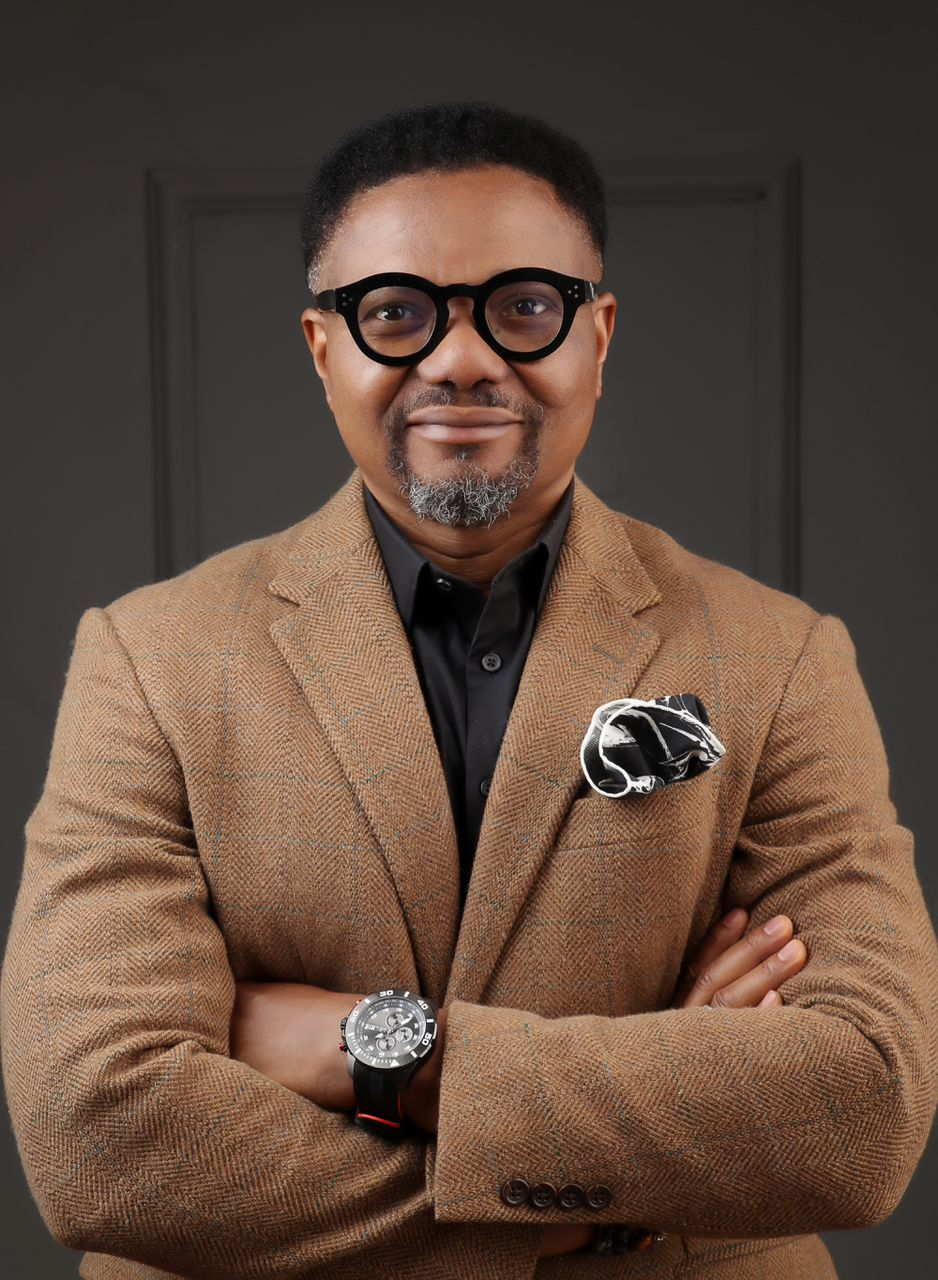
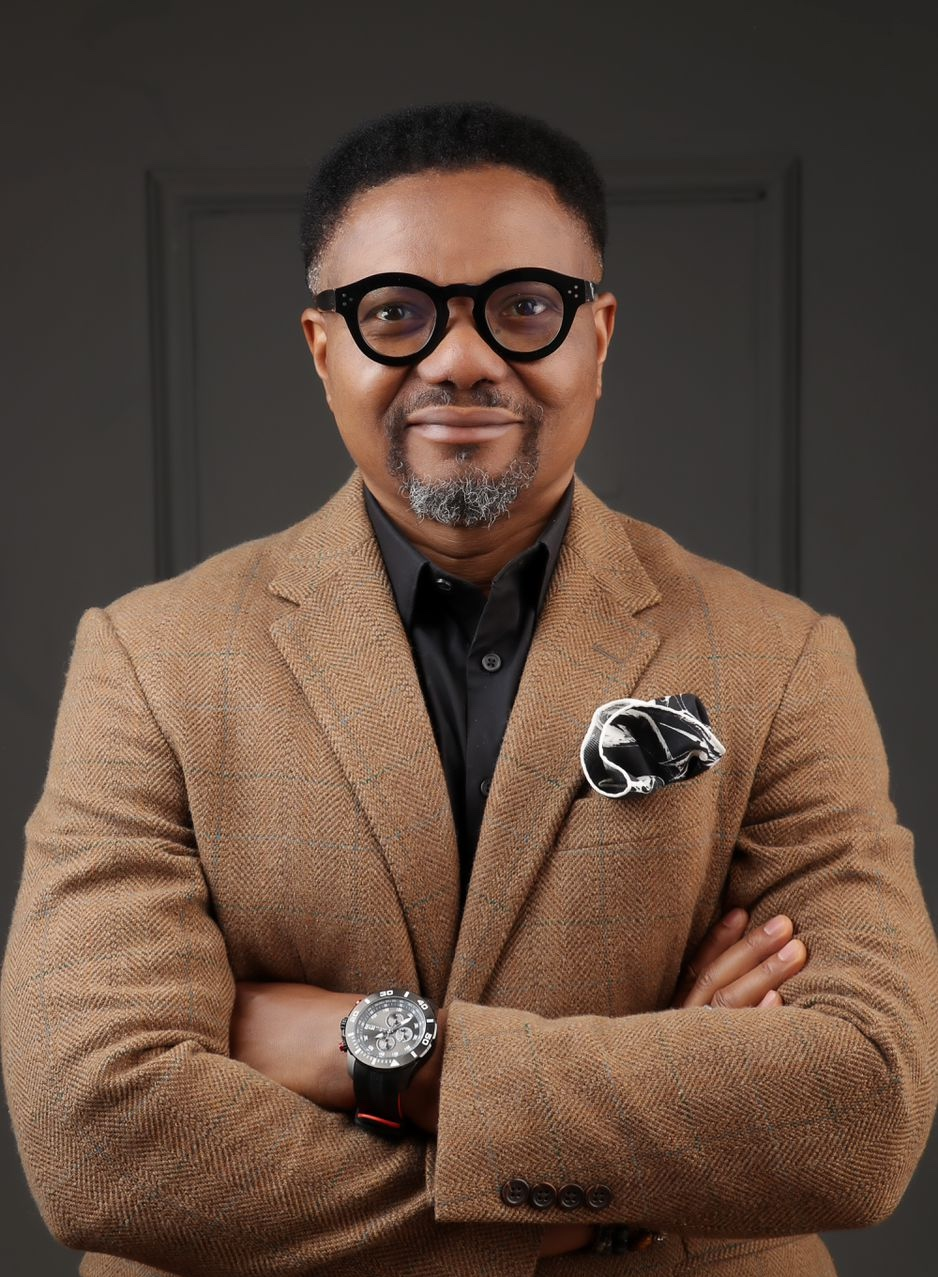
feat: Update team member profiles and practice area page styling
- Updated team member profiles with new images and roles.
- Enhanced the styling of the practice area page for better visual appeal.

Changed region(s): [[0.0, 0.3665, 1.0, 1.0], [0.4328, 0.3665, 0.5565, 0.4276], [0.4328, 0.3054, 0.4638, 0.3359]]

diff --git a/public/js/data/team.js b/public/js/data/team.js
@@ -7,7 +7,23 @@ const teamMembers = [
         role: "Founding Partner & Lead Consultant",
         image: "/images/team/basil-udotai.jpeg",
         introduction: "Nigeria’s “Father of Technology Law”",
-        bio: "Basil Udotai is the Lead Consultant and Founding Partner of Johnson & Wilner LLP. He is widely regarded as Nigeria’s “Father of Technology Law” for his pioneering contributions to cybersecurity and digital economy regulation. He previously served as Director of Cybersecurity at the Office of the National Security Adviser (ONSA) and as General Counsel of the National Information Technology Development Agency (NITDA). His work helped shape Nigeria’s foundational legal frameworks for technology and data protection. At Johnson & Wilner LLP, he leads the firm’s Technology Policy and Cybersecurity practice, advising clients on regulatory compliance, policy strategy, and high-stakes technology transactions.",
+        bio: `Basil Udotai is the Lead Consultant and Founding Partner of Johnson & Wilner LLP. He is widely 
+        recognized as Nigeria’s “Father of Technology Law” for his pioneering contributions to the development 
+        of legal and regulatory frameworks in cybersecurity, data protection, and the digital economy.\n\n
+        With a distinguished career spanning over two decades in both public service and private practice, 
+        Basil previously served as Director of Cybersecurity at the Office of the National Security Adviser (ONSA), 
+        where he played a central role in shaping Nigeria’s national cybersecurity strategy. He also served as 
+        General Counsel and Legal Adviser to the National Information Technology Development Agency (NITDA), 
+        driving key initiatives in internet governance, data privacy, and technology policy.|\n\n Among his notable
+         achievements is his instrumental role in the harmonization and drafting of the Cybercrimes (Prohibition, 
+         Prevention, etc.) Act 2015, as well as providing strategic legal counsel on major national technology 
+         infrastructure projects. He has advised various government agencies and international organizations on 
+         technology law, regulatory compliance, and digital transformation.\n\nAt Johnson & Wilner LLP, Basil leads 
+         the firm’s Technology Policy and Cybersecurity practice. He advises both local and international clients on 
+         complex regulatory matters, digital economy policy, high-stakes technology transactions, and strategic legal 
+         solutions at the intersection of law, technology, and business. He is passionate about innovation management 
+         and continues to bridge the gap between emerging technologies and sound legal governance.
+        `,
         experiences: [
             "Former Director of Cybersecurity, Office of the National Security Adviser (ONSA)",
             "Former General Counsel, National Information Technology Development Agency (NITDA)",
@@ -28,7 +44,7 @@ const teamMembers = [
         link: "http://localhost:3000/attorney/rotimi-ogunyemi",
         name: "Rotimi Ogunyemi",
         role: "Strategic Partner, AI & Emerging Technologies",
-        image: "/images/blog/blog-03.jpg",
+        image: "/images/team/rotimi-ogunyemi.jpg",
         introduction: "Nigeria’s “Father of Technology Law”",
         bio: "Rotimi Ogunyemi is the Lead Consultant at Johnson & Wilner LLP. He served as the Director of Cybersecurity at the Office of the National Security Adviser...",
         experiences: [
@@ -48,7 +64,7 @@ const teamMembers = [
         link: "http://localhost:3000/attorney/senator-ihenyen",
         name: "Senator Ihenyen",
         role: "Strategic Partner, Payment Systems & FinTech",
-        image: "/images/blog/blog-03.jpg",
+        image: "/images/team/senator-ihenyen.jpg",
         introduction: "Nigeria’s “Father of Technology Law”",
         bio: "Senator Ihenyen is the Lead Consultant at Johnson & Wilner LLP. He served as the Director of Cybersecurity at the Office of the National Security Adviser...",
         experiences: [
@@ -68,7 +84,7 @@ const teamMembers = [
         link: "http://localhost:3000/attorney/joseph-nwobike",
         name: "Dr. Joseph Nwobike, SAN",
         role: "Of Counsel",
-        image: "/images/blog/blog-03.jpg",
+        image: "/images/team/joseph-nwobike-2.jpeg",
         introduction: "Nigeria’s “Father of Technology Law”",
         bio: "Dr. Joseph Nwobike is the Lead Consultant at Johnson & Wilner LLP. He served as the Director of Cybersecurity at the Office of the National Security Adviser...",
         experiences: [
@@ -88,7 +104,7 @@ const teamMembers = [
         link: "http://localhost:3000/attorney/edidiong-idiong",
         name: "Edidiong Idiong",
         role: "Of Counsel",
-        image: "/images/blog/blog-03.jpg",
+        image: "/images/team/edidiong-idiong.jpg",
         introduction: "Nigeria’s “Father of Technology Law”",
         bio: "Edidiong Idiong is the Lead Consultant at Johnson & Wilner LLP. He served as the Director of Cybersecurity at the Office of the National Security Adviser...",
         experiences: [
@@ -99,7 +115,7 @@ const teamMembers = [
         expertise: ["Technology Policy", "Cybersecurity", "Data Governance", "Digital Regulation"],
         email: "edidiong@johnsonandwilner.com",
         phone: "+234 816 005 1310",
-        linkedin: "https://linkedin.com/in/edidiongidiong",
+        linkedin: "https://linkedin.com/in/abdulmalikmuhaimin",
         mainPartner: true,
     },
     {
@@ -108,18 +124,25 @@ const teamMembers = [
         link: "http://localhost:3000/attorney/muhaimin-abdulmalik",
         name: "Muhaimin Abdulmalik",
         role: "Affiliate Counsel",
-        image: "/images/blog/blog-03.jpg",
+        image: "/images/team/malik-muhaimin.jpeg",
         introduction: "Nigeria’s “Father of Technology Law”",
-        bio: "Muhaimin Abdulmalik is the Lead Consultant at Johnson & Wilner LLP. He served as the Director of Cybersecurity at the Office of the National Security Adviser...",
+        bio: `I build privacy programmes from scratch and operate them at the level a data-driven company actually 
+        needs. \n\n As a data protection and technology lawyer based in Abuja, I've spent six years at the intersection 
+        of regulatory compliance, AI governance, and fintech advisory across Nigerian, European, and US privacy frameworks. 
+        I established and lead the privacy and data protection practice at Chesslaw Consult, where I design end-to-end 
+        compliance programmes: NDPA 2023 audits, DPIAs, AI governance frameworks, DSR workflows, third-party vendor risk 
+        assessments, and board-level privacy reporting simultaneously, across multiple clients, in multiple jurisdictions.\n\n
+        I hold a CIPP/E certification and I understand the NDPA the way most practitioners understand GDPR from the inside, operationally, not just theoretically. I know what the NDPC is actually doing in enforcement, what the gaps in the guidance still are, and how a company needs to position itself before those gaps close.`,
         experiences: [
-            "Former Director of Cybersecurity, Office of the National Security Adviser",
-            "Former General Counsel, National Information Technology Development Agency (NITDA)",
-            "Pioneer Head of the Directorate for Cybersecurity"
+            "Led the privacy programme for a US incorporated company with cross boarder operations (GDPR + NDPA + US law): mapped 19 processing activities, raised 22 findings including an autonomous AI pipeline processing biometric data without human oversight, redesigned the AI workflow with the engineering team, and closed all findings in 10 weeks.",
+            "Served as core counsel to the Bureau of Public Procurement in a World Bank-funded e-GP technology dispute (≈$6.2M / ₦9.3B), reviewing international procurement instruments and leading cross-examination of key witnesses.",
+            "Designed and delivered a technology contract management curriculum for the BPP's legal and IT departments a direct precedent for building internal legal playbooks for a government institution.",
+            "Speaker at the 7th Privacy Symposium Africa 2025 on biometric data and digital ID governance. Regular speaker and facilitator at NIALS, EdgeRise DPCO webinars, DPLAN, and NDPA enforcement forums.",
         ],
         expertise: ["Technology Policy", "Cybersecurity", "Data Governance", "Digital Regulation"],
         email: "mulik@johnsonandwilner.com",
-        phone: "+234 816 005 1310",
-        linkedin: "https://linkedin.com/in/muhaiminabdulmalik",
+        phone: "+234 814 182 5161",
+        linkedin: "https://www.linkedin.com/in/muhaiminabdulmalik",
         mainPartner: true,
     },
     {
@@ -130,7 +153,18 @@ const teamMembers = [
         role: "Senior Associate",
         image: "/images/team/fortune-ugwumba.jpeg",
         introduction: "Fortune is a Senior Associate at Johnson & Wilner LLP, specializing in technology law, data governance, and digital regulation across African markets.",
-        bio: "Fortune Ugwumba is a technology lawyer specializing in technology transactions, data governance, digital economy regulation, and emerging technology policy in Africa. With over six years’ post-qualification experience, his practice sits at the intersection of law, innovation, and digital policy, advising on how legal and regulatory frameworks can enable secure, rights-respecting, and innovation-driven digital ecosystems. He holds a Bachelor of Laws from the University of Abuja (2019) and was called to the Nigerian Bar in 2020 following completion of the Nigerian Law School programme. Fortune currently serves as a Senior Associate at Johnson & Wilner LLP, a business and technology law firm based in Abuja. In this role, he advises private sector clients, public institutions, and technology-driven enterprises on regulatory compliance, digital infrastructure governance, and the legal implications of adopting frontier technologies across African markets. His work focuses particularly on the design and implementation of governance frameworks that address data protection, cross-border data flows, digital sovereignty considerations, and the responsible deployment of emerging technologies including artificial intelligence.",
+        bio: `Fortune Ugwumba is a technology lawyer specializing in technology transactions, data governance, 
+        digital economy regulation, and emerging technology policy in Africa. With over six years’ post-qualification 
+        experience, his practice sits at the intersection of law, innovation, and digital policy, advising on how 
+        legal and regulatory frameworks can enable secure, rights-respecting, and innovation-driven digital 
+        ecosystems.\n\n He holds a Bachelor of Laws (LL.B) from the University of Abuja and was called to the Nigerian 
+        Bar.\n\n Fortune currently serves as a Senior Associate at Johnson & Wilner LLP, a business and technology 
+        law firm based in Abuja. In this role, he advises private sector clients, public institutions, and 
+        technology-driven enterprises on regulatory compliance, digital infrastructure governance, and the legal 
+        implications of adopting frontier technologies across African markets.\n\n His work focuses particularly 
+        on the design and implementation of governance frameworks that address data protection, cross-border data 
+        flows, digital sovereignty considerations, and the responsible deployment of emerging technologies including 
+        artificial intelligence.`,
         experiences: [
             "Structuring and advisory on technology infrastructure concession arrangements with implications for national digital systems and data control.",
             "Advising on technology transfer protocols and cross-border regulatory considerations, including IP risk.",
@@ -140,7 +174,7 @@ const teamMembers = [
         ],
         expertise: ["Data Governance and Privacy", "Data Governance & Privacy", "AI and Emerging Technology", "Technology Policy"],
         email: "fortune@johnsonandwilner.com",
-        phone: "+234 816 005 1310",
+        phone: "+234 813 005 0395",
         linkedin: "https://linkedin.com/in/fortuneugwumba",
         mainPartner: true,
     },
@@ -150,17 +184,30 @@ const teamMembers = [
         link: "http://localhost:3000/attorney/favour-nwadibie",
         name: "Favour Nwadibie",
         role: "Associate",
-        image: "/images/blog/blog-03.jpg",
-        introduction: "Nigeria’s “Father of Technology Law”",
-        bio: "Favour Nwadibie is the Lead Consultant at Johnson & Wilner LLP. He served as the Director of Cybersecurity at the Office of the National Security Adviser...",
+        image: "/images/team/favour-nwadibie.jpeg",
+        introduction: "Favour is an Associate at Johnson & Wilner LLP, specialising in business and technology law.",
+        bio: `Favour Nwadibie is a multi-talented legal practitioner specialising in business and technology law. Her 
+        professional experience spans regulatory compliance, technology contracts, data protection and privacy, digital 
+        platform governance and technology policy.\n\n She graduated with First Class Honours from the Nigerian Law School 
+        and was recognised as the Best Graduating Student, Faculty of Law, University of Calabar, Class of 2023. She 
+        currently serves as an Associate at Johnson & Wilner LLP, a business and technology law firm based in Abuja. In 
+        this role, she advises clients across both public and private sectors on data protection compliance, technology 
+        contract risks, regulatory obligations, and the legal architecture required to operate responsibly in Nigeria's 
+        digital economy. \n\n Her work increasingly focuses on helping organizations navigate complex regulatory 
+        environments while leveraging technology responsibly and sustainably. She is passionate about the role of 
+        law and policy in shaping Africa's digital future and regularly engages in research, writing, and public 
+        conversations on technology law and governance.`,
         experiences: [
-            "Former Director of Cybersecurity, Office of the National Security Adviser",
-            "Former General Counsel, National Information Technology Development Agency (NITDA)",
-            "Pioneer Head of the Directorate for Cybersecurity"
+            "Advising on technology and digital infrastructure projects involving public institutions and private enterprises.",
+            "Supporting clients in identifying and managing legal and regulatory risks associated with technology adoption and digital transformation initiatives.",
+            "Drafting, reviewing and negotiation of technology agreements, and advising clients on commercial transactions.",
+            "Assisting clients in navigating regulatory compliance obligations across technology, corporate, and innovation-driven sectors.",
+            "Advising on technology procurement processes, contract structuring, and regulatory compliance obligations.",
+            "Conducting legal research and regulatory analysis on emerging technologies, Artificial Intelligence, digital platforms, and innovation-focused business models.",
         ],
-        expertise: ["Technology Policy", "Cybersecurity", "Data Governance", "Digital Regulation"],
+        expertise: ["Technology Contracts", "Cybersecurity", "Data Governance & Privacy", "Digital Regulation"],
         email: "favour@johnsonandwilner.com",
-        phone: "+234 816 005 1310",
+        phone: "+234 806 493 6802",
         linkedin: "https://linkedin.com/in/favournwadibie",
         mainPartner: true,
     },
@@ -168,19 +215,29 @@ const teamMembers = [
         id: 9,
         slug: "Lauretta-umeh",
         link: "http://localhost:3000/attorney/lauretta-umeh",
-        name: "Lauretta Umeh",
+        name: "Lauretta Oluchi Umeh",
         role: "Associate",
-        image: "/images/blog/blog-03.jpg",
+        image: "/images/team/lauretta-umeh.jpeg",
         introduction: "Nigeria’s “Father of Technology Law”",
-        bio: "Lauretta Umeh is the Lead Consultant at Johnson & Wilner LLP. He served as the Director of Cybersecurity at the Office of the National Security Adviser...",
+        bio: `
+        Lauretta Oluchi Umeh is an Associate at Johnson & Wilner LLP, a business and technology law firm, where she 
+        advises startups, brands, and creators on the legal foundations that enable them to build, operate, and 
+        grow with confidence.\n\n Her practice spans intellectual property law, corporate structuring, tech law, and 
+        commercial contracts, with a particular focus on supporting early-stage businesses and creative entrepreneurs 
+        navigating Nigeria's evolving legal and regulatory landscape.\n\n Lauretta holds a Bachelor of Laws from the
+         University of Abuja (2023) and was called to the Nigerian Bar in 2025 following completion of the Nigerian 
+         Law School programme. She brings a sharp research background and a practical, business-oriented approach 
+         to legal advisory — translating complex legal requirements into clear, actionable guidance for her clients.
+        `,
         experiences: [
-            "Former Director of Cybersecurity, Office of the National Security Adviser",
-            "Former General Counsel, National Information Technology Development Agency (NITDA)",
-            "Pioneer Head of the Directorate for Cybersecurity"
+            "Advised startups on business registration requirements, regulatory compliance, and optimal business structure selection, enabling founders to make informed decisions at the formation stage.",
+            "Drafted and reviewed founders' agreements, establishing clear governance structures and protecting the interests of all founding parties from the outset.",
+            "Advised creators and creative entrepreneurs on intellectual property rights, including copyright ownership, licensing arrangements, and strategies for protecting their work in digital and commercial contexts.",
+            "Provided legal research and consulting support to brands and creators on contractual rights and compliance obligations."
         ],
-        expertise: ["Technology Policy", "Cybersecurity", "Data Governance", "Digital Regulation"],
+        expertise: ["Technology Policy"],
         email: "lauretta@johnsonandwilner.com",
-        phone: "+234 816 005 1310",
+        phone: "+2349067384770",
         linkedin: "https://linkedin.com/in/laurettatumeh",
         mainPartner: true,
     },

diff --git a/public/css/style.css b/public/css/style.css
@@ -2225,3 +2225,10 @@ body {
     display: none !important;
     visibility: hidden;
 }
+
+/* Justify text in attorney pages */
+.pbmit-service-description p {
+    text-align: justify;
+    text-justify: inter-word;
+    line-height: 1.75;
+}
